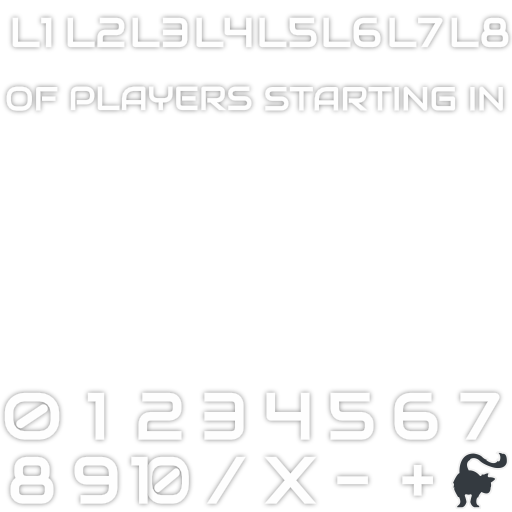
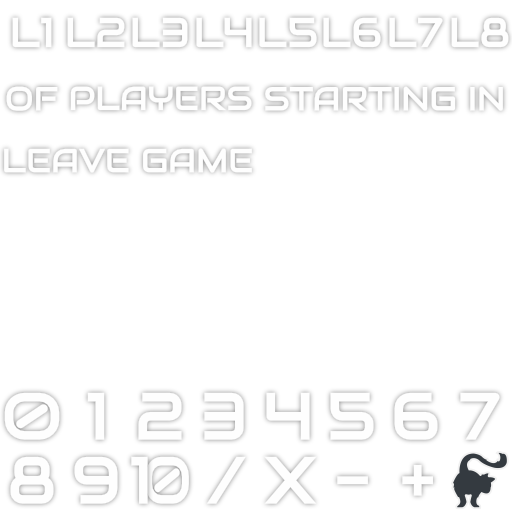
feat: update "Leave game" button

Changed region(s): [[0.0, 0.2812, 0.25, 0.3438], [0.2812, 0.2812, 0.5, 0.3438]]

diff --git a/dcl/src/client/ui-screen/ui.game.leaveGame.tsx b/dcl/src/client/ui-screen/ui.game.leaveGame.tsx
@@ -4,12 +4,9 @@ import { BtnStateUVIndex, buttonUVs } from './utils/btn-utils'
 import { ClientMessaging } from '../clientMessaging'
 import { ClientStore } from '../clientStore'
 import { PlayerStatus } from 'src/shared/enums'
+import { getCanvasInfo } from './utils/sizing'
 
 
-var defaultColor = Color4.fromHexString('#4C958166')
-var hoverColor = Color4.fromHexString('#4C9581FF')
-
-var currentColor = defaultColor
 var buttonState = BtnStateUVIndex.NORMAL
 
 const clientStore = ClientStore.getInstance()
@@ -17,18 +14,19 @@ const clientStore = ClientStore.getInstance()
 // MARK: Main GameUI
 export function LeaveGameUI() {
 	
-	const playerStatus = ClientStore.getInstance().getPlayerStatus()
-	const isInGame     = playerStatus !== PlayerStatus.IDLE 
+	const isInGame = clientStore.getPlayerStatus() !== PlayerStatus.IDLE 
+
+	const canvasInfo = getCanvasInfo()
 
 	return (
 		<UiEntity
 			uiTransform={{
-				positionType : 'absolute',
-				position     : { top: 6, right: 128 },
-				width        : '128',
-				height       : 48,
-				alignContent : 'flex-start',
+				positionType : 'relative',
+				position     : { top: 80, right: (canvasInfo?.width ?? 0) / 2 - 64 },
+				width        : 192,
+				height       : 64,
 				alignItems   : "center",
+				justifyContent: 'space-around',
 				flexDirection: 'row',
 				flexGrow     : 0,
 				flexShrink   : 0,
@@ -51,17 +49,28 @@ export function LeaveGameUI() {
 				console.log("NORMAL")
 				buttonState = BtnStateUVIndex.HOVER 
 			}}}
-			uiText={{
-				value: "Leave Game",
-			}}
 
 			uiBackground={{ 
 				texture    : { src: 'assets/images/ui/btn-primary-atlas-b.png' }, 
 				textureMode: 'stretch',
 				uvs        : buttonUVs[buttonState],
 			}}
-
 		>
+			<UiEntity
+				uiTransform={{
+					width: "75%",
+					height: "75%",
+				}}
+				uiBackground={{
+					texture: { src: 'assets/images/ui/icon-atlas.png' },
+					textureMode: 'stretch',
+					uvs: [
+						0, 0.625, 
+						0, 0.75, 
+						0.5, 0.75, 
+						0.5, 0.625],
+				}}
+			/>
 		</UiEntity>
 	)
 }